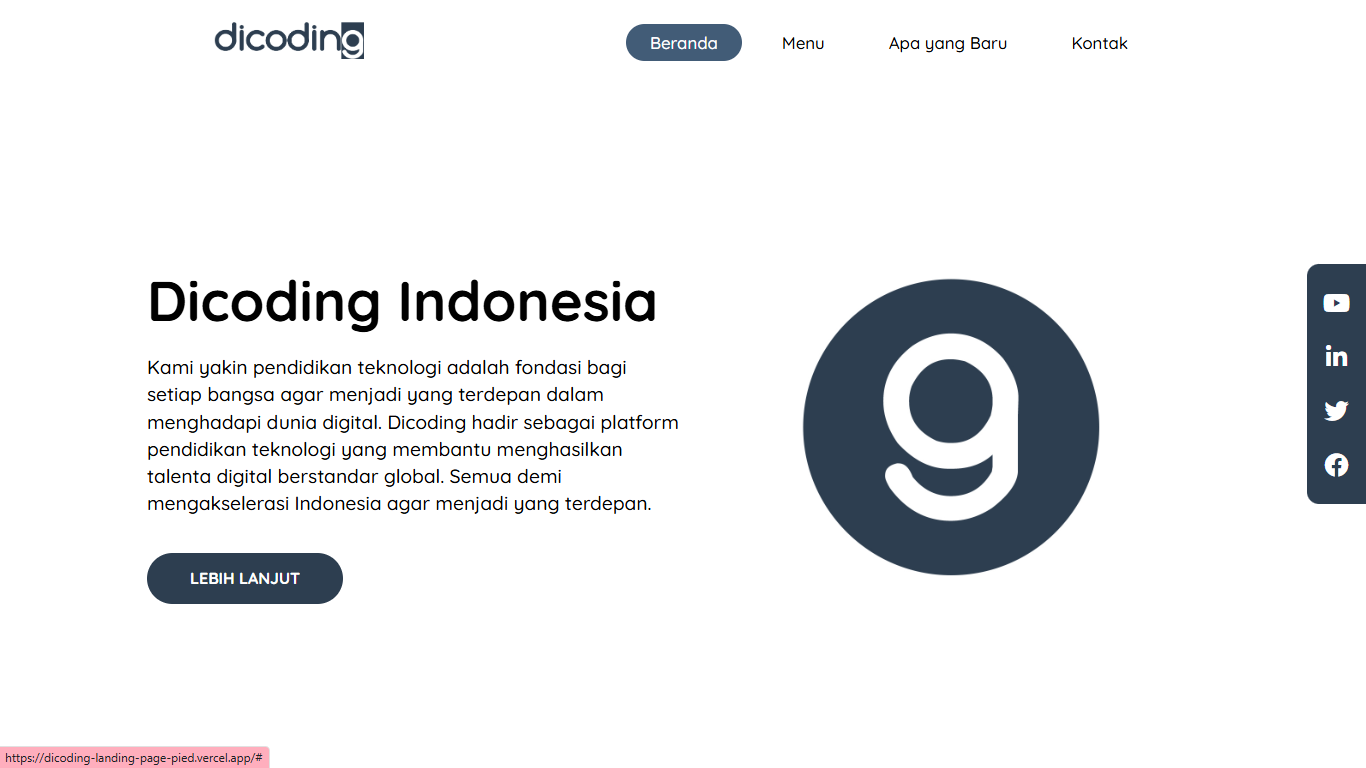
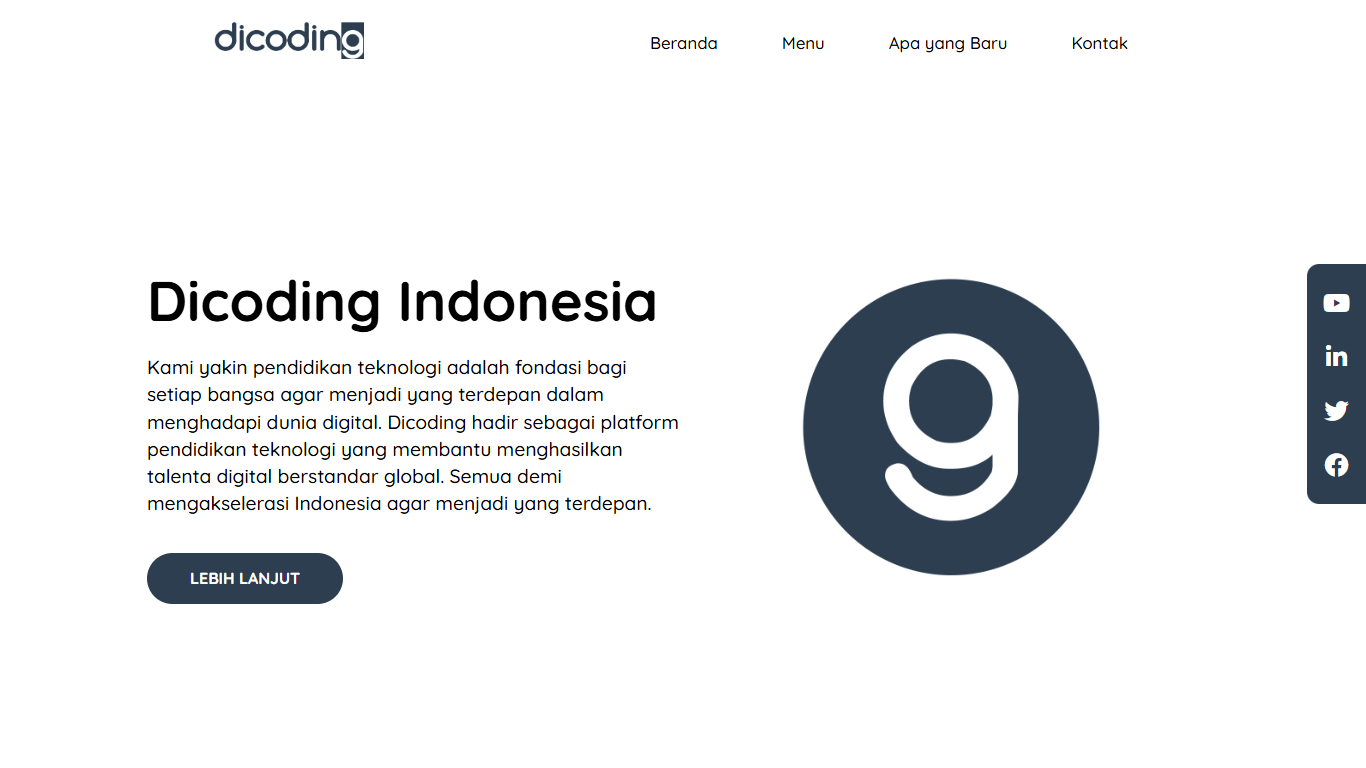
update hero

Changed region(s): [[0.0, 0.9688, 0.2152, 1.0], [0.4612, 0.0312, 0.5534, 0.0938]]

diff --git a/src/components/Hero.vue b/src/components/Hero.vue
@@ -1,3 +1,9 @@
+<script setup>
+const props = defineProps({
+  image: String,
+})
+</script>
+
 <template>
   <section class="main py-5">
     <div class="container py-5">
@@ -9,14 +15,15 @@
           </h3>
           <h6>FrontEnd Web Developer | Data Analyst</h6>
           <a href="/doc/CV_ATS_MAULANA ANSARI.pdf" download class="btn py-3 px-4">My Resume</a>
-          <!-- <input type="button" value="My Resume" class="bt1 mt-5" /> -->
-          <!-- <a href="#contact" class="bt2 mt-5">Contact</a> -->
           <input
             type="button"
             value="Contact Me"
             class="bt2 mt-5"
             onclick="location.href = '#contact'"
           />
+        </div>
+        <div class="col-md-6">
+          <img :src="props.image" alt="" class="img-fluid rounded-5" />
         </div>
       </div>
     </div>
@@ -29,7 +36,7 @@
   background-size: cover;
   background-repeat: no-repeat;
   width: 100%;
-  height: 95vh;
+  min-height: 100vh;
 }
 
 .main h3 {

diff --git a/src/views/Home.vue b/src/views/Home.vue
@@ -4,7 +4,7 @@ import About from '@/components/About.vue'
 </script>
 
 <template>
-  <Hero />
+  <Hero image="/images/profil.jpg" />
   <About
     small-description="A  Computer Science Fresh Graduate passionate about Front-End Web Development, Data Analytics, and Machine Learning."
     description="I am a fresh graduate with a Bachelor's degree in Computer Science from Universitas Lambung Mangkurat, passionate about Front-End Web Development, Data Analytics, and Machine Learning. Throughout my academic journey, I completed various projects and bootcamp related to web development and data analytics. I enjoy learning new technologies, work effectively both independently and in teams, and am eager to continuously grow my professional skills while building impactful digital solutions."